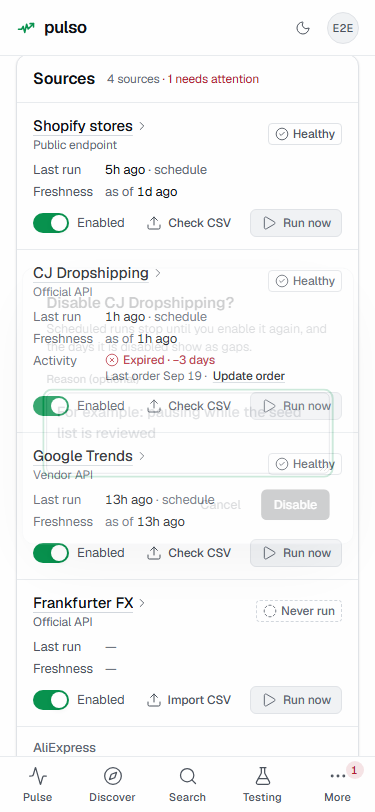
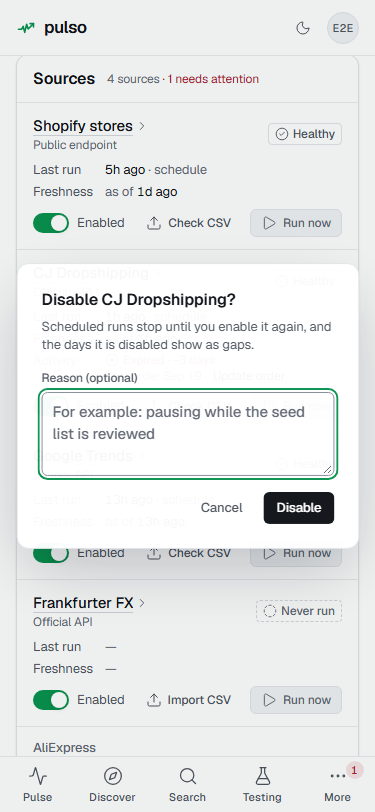
docs(imp-183): DEC-233; dialog enter screenshots; re-shoot imp-165 and imp-177 exits
DEC-233 records the 0.97/0.98 scales with ease-out on enter, the Button press
staying at fast (the Motion System note changes to 120 ms), and how e2e reads a
held dialog animation. The imp-177 screenshot spec gains enter-* shots (50 ms
into the 200 ms enter) to docs/screenshots/imp-183/; the exit shots of imp-165
and imp-177 are re-shot for the 0.98 exit scale. Fixtures only, auth bypass.

Changed region(s): [[0.0, 0.3079, 1.0, 0.7389], [0.7333, 0.3387, 0.9093, 0.3695]]

diff --git a/apps/web/e2e/press-and-exit-screenshots.spec.ts b/apps/web/e2e/press-and-exit-screenshots.spec.ts
@@ -5,7 +5,9 @@ import { mockAdminApi } from "./data-health/fixtures";
 // imp-177 + imp-141 owner review screenshots, from fixtures only: 1440px and 375px, dark and light.
 // - exit-*: the Disable dialog halfway (60 ms) through its 120 ms exit after Cancel, held there.
 // - locked-press-*: the locked "Run CJ Dropshipping now" held under a pointer press, at full size, its reason shown.
-// Run with `pnpm --filter web e2e:screenshots e2e/press-and-exit`; output goes to docs/screenshots/imp-177/.
+// - enter-* (imp-182): the Disable dialog a quarter (50 ms) into its 200 ms enter from 0.97 with ease-out, held there.
+// Run with `pnpm --filter web e2e:screenshots e2e/press-and-exit`; output goes to docs/screenshots/imp-177/, and the
+// enter to docs/screenshots/imp-183/.
 const OUT = "../../docs/screenshots/imp-177";
 
 for (const theme of ["dark", "light"] as const) {
@@ -23,6 +25,16 @@ for (const theme of ["dark", "light"] as const) {
         await page.goto("/admin/data-health");
         await expect(page.getByRole("switch", { name: "CJ Dropshipping enabled" }).locator("visible=true")).toBeVisible();
         await page.evaluate(() => document.fonts.ready);
+      });
+
+      test("enter", async ({ page }) => {
+        await page.addStyleTag({ content: "[data-state=open] { animation-play-state: paused !important; }" });
+        await page.getByRole("switch", { name: "CJ Dropshipping enabled" }).locator("visible=true").click();
+        await expect(page.getByRole("dialog", { name: "Disable CJ Dropshipping?" })).toBeVisible();
+        await page.evaluate(() => {
+          for (const a of document.getAnimations()) a.currentTime = 50;
+        });
+        await page.screenshot({ path: `../../docs/screenshots/imp-183/enter-${width}-${theme}.png` });
       });
 
       test("exit", async ({ page }) => {

diff --git a/docs/DECISIONS.md b/docs/DECISIONS.md
@@ -1841,3 +1841,12 @@ Superseded review defaults, not given entries: default #0 (move the repo) is don
   - (b) A module-level store or a React context holding the open id: more code, and a press-open still wouldn't close a plain Radix `Tooltip`. The event is the smallest that works, but its name is internal to `@radix-ui/react-tooltip` (1.4.1). `tap-tooltip.spec.ts` counts open reasons, so a rename fails CI instead of passing silently.
   - (c) `bottom` only on a phone: a media-query hook for one hint, and it would get the run drawer wrong, which is narrow at every viewport, so its stale line wraps the Error ID above Retry there too. The cost of one rule: on a wide stale line the reason now sits over the right end of the coverage chart's first row while it's open, where above it sat over the empty panel header. Choosing the side from whether the Error ID wrapped is left to the backlog. Radix collision handling alone: it flips only at the viewport edge, never around page content.
 - **Why:** measured in chromium, before → after (`tap-tooltip.spec.ts`; the numbers from a throwaway probe run on both versions). Enter or Space on a focused locked control with its reason open: reason kept on 0/5 → 5/5 controls (Refresh, a switch, Run now, Choose CSV…, Retry). A click after the hover: 0/5 → 5/5, and the trigger never passes through `closed` (before, each click closed it, so a second click reopened it). A second tap on an open reason: closed → open. Enter or Space on a focused control while another reason was open on hover: 2 open reasons → 1. A second reason opened by a click, hover or tap was already 1 open and stays 1. The Retry reason against the Error ID line: it overlapped on the panel error at 1440 (25 × 11 px) and on both surfaces at 375 (stale line 89 × 16 px, panel error 54 × 11 px); now it is below Retry and overlaps neither, at either width. Each guard in (a) has its own failing check: without the `pointerdown` guard or without `onPointerDownOutside`, the recorded states read `closed, instant-open` for each press.
+
+### DEC-233 · Dialog enter at `ease.out` from 0.97, exit to 0.98; Button press stays at `fast`; e2e reads a held dialog animation
+**2026-10-24 · proposed (imp-183)** · imp-183 (Claude lead merge checks 19:45Z and 20:15Z), imp-182 (imp-177 report leftover); keeps DEC-229 (exit at `fast` with `ease.in`) and imp-165's rule that a dialog keeps its content through the exit; vault Design/Motion System (pattern 9, Micro-interactions); web and tests only, no API, schema, dependency, CI or copy change
+- **Decision:**
+  - **(a) Dialog enter and exit scales.** `DialogContent` enters with `data-[state=open]:ease-out` (the `--ease-out` token) and `zoom-in-97`, and exits with `zoom-out-98`. tw-animate-css 1.4.0 takes both numbers (`--tw-enter-scale: calc(97*1%)`), so no arbitrary value is needed. The exit keeps `fast` and `ease-in` (DEC-229), and the scrim (fade only, `fast`) is unchanged. No caller passes its own duration, easing or zoom.
+  - **(b) Button press stays at 120 ms (`fast`); the note changes, not the code.** Micro-interactions said the 0.98 press takes 80 ms. The Button has one transition for colour, background, border and scale at `fast` with `ease.standard`. An 80 ms press would need a fifth duration token for one property of one component, or a per-property duration list, and the release back to 1 would run at 80 ms too. The token table has no 80 ms step, and the Button has pressed at 120 ms since Phase 0. The vault note now says `fast` (120 ms), and e2e pins the Button's `transition-duration` at `0.12s`.
+  - **(c) How e2e reads a dialog's animation.** A spec that needs the closing (or entering) state injects `animation-play-state: paused !important` for the dialog, so the animation holds at its first frame, waits for `data-state="closed"` with a 2 s bounded assertion that names what it waited for, reads the animation, then removes the hold. That applies to `press-and-exit.spec.ts` and the two exit screenshot specs. The frame samplers that must see real frames (`dialog-exit.spec.ts`, `drawer-import.spec.ts`) keep their per-frame samples and also sample the close itself from a MutationObserver on `data-state`.
+- **Alternatives:** an 80 ms press token (one more token, a split transition, and a faster release); a MutationObserver that reads the computed style in the close's microtask (also race-free, but it needs its own timeout and message inside the page, and the screenshot specs need a hold anyway); a bounded frame poll (it fails faster but still misses the close under a stall); a longer test timeout (hides the race).
+- **Why:** the old poll found nothing to read when a long task fell between the close and the next frame. The 120 ms exit finished, and the dialog unmounted before the poll looked. With a forced 300 ms long task right after the close, 3 of 10 runs hung until the test timeout. With the hold, the same stall passed 10 of 10 (2.3 s each), and a dialog that never closes fails in about 2.3 s with "the dialog reports closed after Cancel … Expected "closed", Received "open"". The enter went from `ease` to `cubic-bezier(0.16, 1, 0.3, 1)` and its first keyframe from `scale3d(0.96…)` to `scale3d(0.97…)`. The exit's last keyframe went from `scale3d(0.96…)` to `scale3d(0.98…)`, still 0.12 s with `cubic-bezier(0.7, 0, 0.84, 0)`. All of these are asserted on the computed keyframes in `press-and-exit.spec.ts`.
